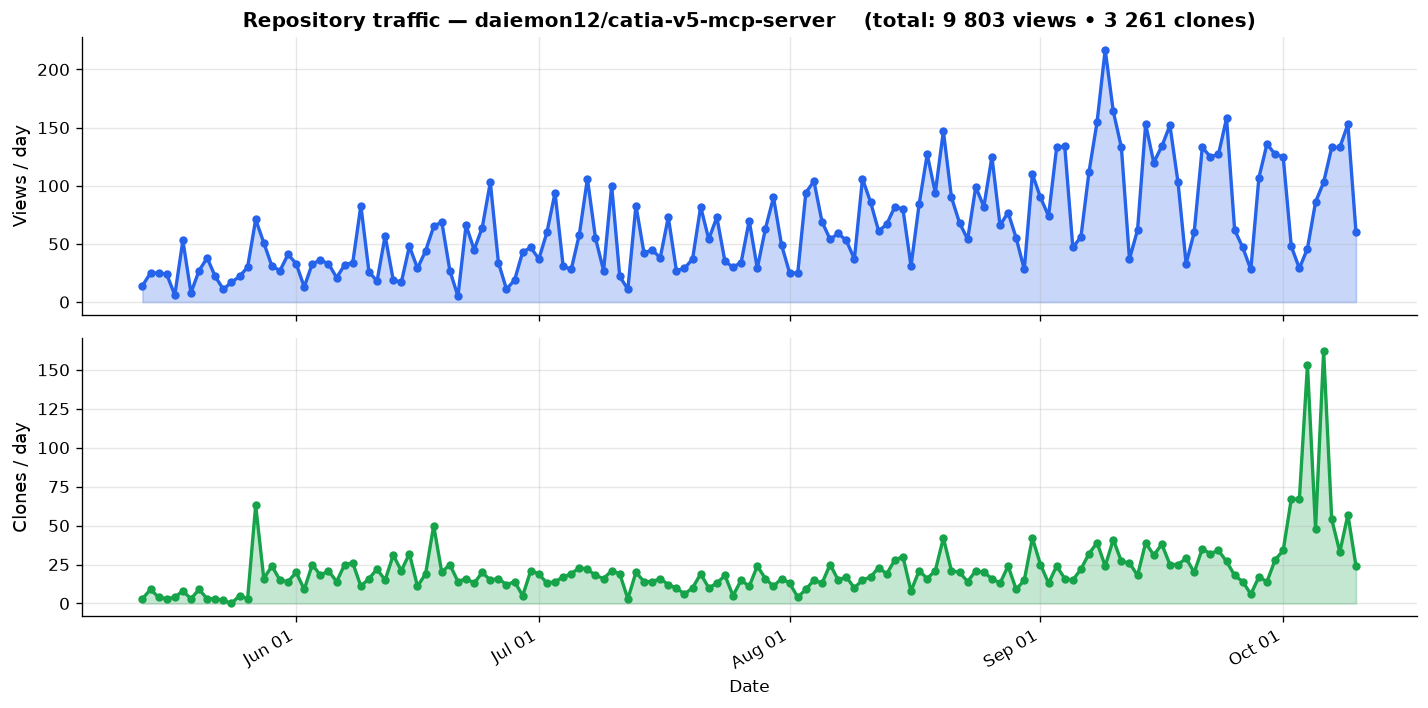
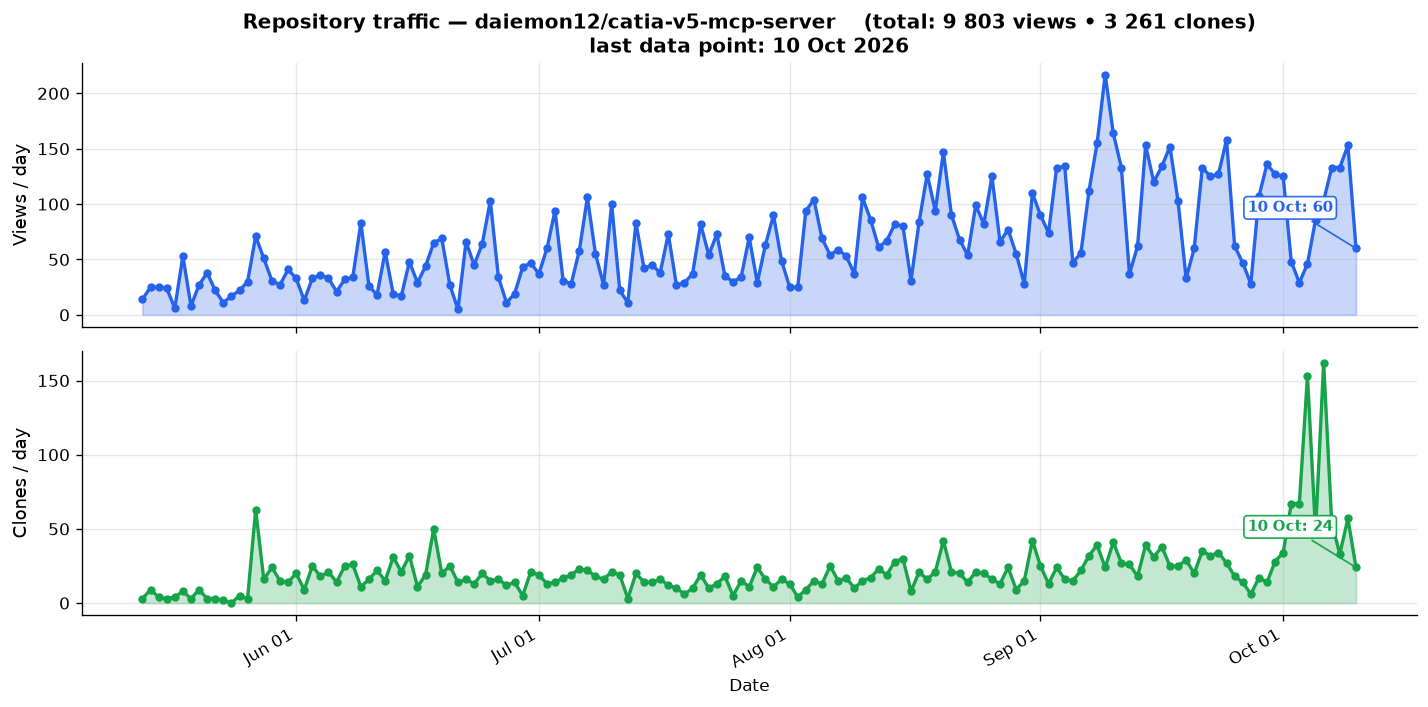
Traffic chart: show the last data date and label the latest day

diff --git a/scripts/collect_traffic.py b/scripts/collect_traffic.py
@@ -130,7 +130,8 @@ def render_chart(clones: list[dict], views: list[dict], repo: str) -> None:
     ax1.plot(v_dates, v_vals, color="#2563eb", linewidth=2, marker="o", markersize=4)
     ax1.set_ylabel("Views / day", fontsize=11)
     ax1.set_title(
-        f"Repository traffic — {repo}    (total: {sum(v_vals):,} views • {sum(c_vals):,} clones)".replace(",", " "),
+        f"Repository traffic — {repo}    (total: {sum(v_vals):,} views • {sum(c_vals):,} clones)".replace(",", " ")
+        + f"\nlast data point: {max(v_dates[-1], c_dates[-1]):%d %b %Y}",
         fontsize=12,
         fontweight="bold",
     )
@@ -139,6 +140,22 @@ def render_chart(clones: list[dict], views: list[dict], repo: str) -> None:
     ax2.plot(c_dates, c_vals, color="#16a34a", linewidth=2, marker="o", markersize=4)
     ax2.set_ylabel("Clones / day", fontsize=11)
     ax2.set_xlabel("Date")
+
+    # Label the most recent day on each panel so the end of the data is
+    # never mistaken for the last month tick on the axis.
+    for ax, dates, vals, color in ((ax1, v_dates, v_vals, "#2563eb"), (ax2, c_dates, c_vals, "#16a34a")):
+        ax.annotate(
+            f"{dates[-1]:%d %b}: {vals[-1]}",
+            xy=(dates[-1], vals[-1]),
+            xytext=(-14, 22),
+            textcoords="offset points",
+            ha="right",
+            fontsize=9,
+            fontweight="bold",
+            color=color,
+            bbox={"boxstyle": "round,pad=0.25", "fc": "white", "ec": color, "alpha": 0.95},
+            arrowprops={"arrowstyle": "-", "color": color, "lw": 1},
+        )
 
     for ax in (ax1, ax2):
         ax.grid(alpha=0.3)
